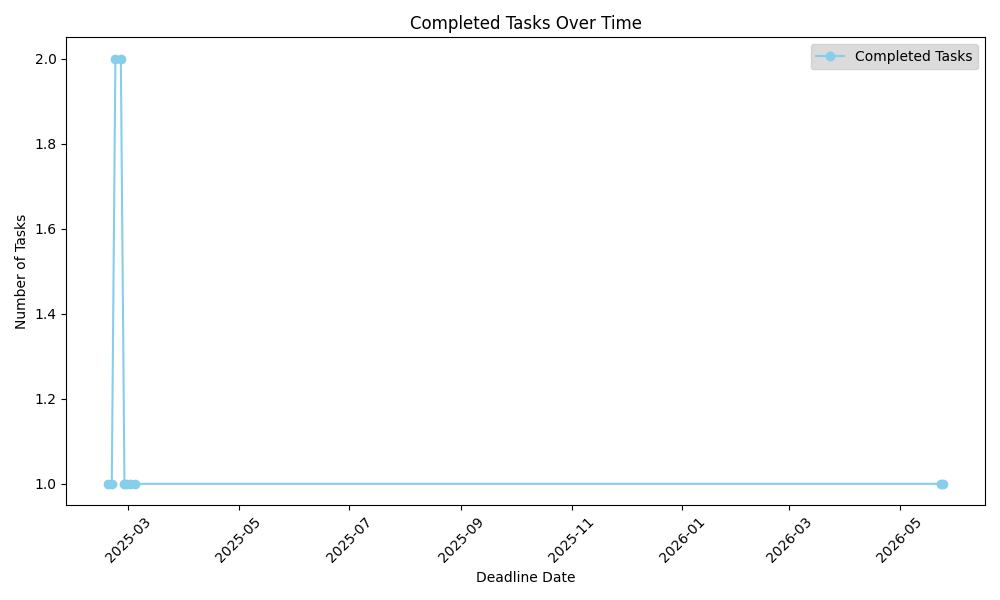
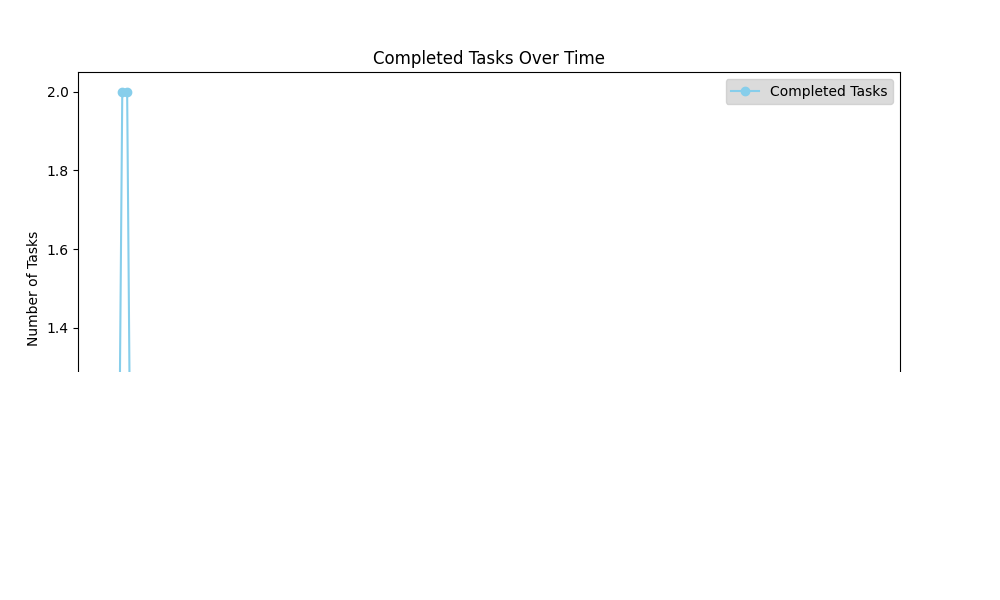
fixed dashboards

diff --git a/SystemAPP/templates/AdminDashboard.html b/SystemAPP/templates/AdminDashboard.html
@@ -164,21 +164,21 @@
                 <span style="font-size:13px;font-weight:600;color:#475569;display:flex;align-items:center;gap:7px;"><span style="width:9px;height:9px;border-radius:50%;background:#8b5cf6;display:inline-block;"></span>In Progress</span>
                 <span style="font-size:18px;font-weight:700;color:#0f172a;">{{ assigned_tasks_count }}</span>
               </div>
-              <div style="height:7px;background:#f1f5f9;border-radius:99px;overflow:hidden;"><div style="height:100%;width:60%;background:linear-gradient(90deg,#8b5cf6,#6d28d9);border-radius:99px;"></div></div>
+              <div style="height:7px;background:#f1f5f9;border-radius:99px;overflow:hidden;"><div style="height:100%;width:{{ assigned_tasks_percent }}%;background:linear-gradient(90deg,#8b5cf6,#6d28d9);border-radius:99px;"></div></div>
             </div>
             <div>
               <div style="display:flex;justify-content:space-between;align-items:center;margin-bottom:7px;">
                 <span style="font-size:13px;font-weight:600;color:#475569;display:flex;align-items:center;gap:7px;"><span style="width:9px;height:9px;border-radius:50%;background:#10b981;display:inline-block;"></span>Completed</span>
                 <span style="font-size:18px;font-weight:700;color:#0f172a;">{{ finished_tasks_count }}</span>
               </div>
-              <div style="height:7px;background:#f1f5f9;border-radius:99px;overflow:hidden;"><div style="height:100%;width:40%;background:linear-gradient(90deg,#10b981,#059669);border-radius:99px;"></div></div>
+              <div style="height:7px;background:#f1f5f9;border-radius:99px;overflow:hidden;"><div style="height:100%;width:{{ finished_tasks_percent }}%;background:linear-gradient(90deg,#10b981,#059669);border-radius:99px;"></div></div>
             </div>
             <div>
               <div style="display:flex;justify-content:space-between;align-items:center;margin-bottom:7px;">
                 <span style="font-size:13px;font-weight:600;color:#475569;display:flex;align-items:center;gap:7px;"><span style="width:9px;height:9px;border-radius:50%;background:#06b6d4;display:inline-block;"></span>Departments</span>
                 <span style="font-size:18px;font-weight:700;color:#0f172a;">{{ total_departments }}</span>
               </div>
-              <div style="height:7px;background:#f1f5f9;border-radius:99px;overflow:hidden;"><div style="height:100%;width:70%;background:linear-gradient(90deg,#06b6d4,#0891b2);border-radius:99px;"></div></div>
+              <div style="height:7px;background:#f1f5f9;border-radius:99px;overflow:hidden;"><div style="height:100%;width:{{ departments_percent }}%;background:linear-gradient(90deg,#06b6d4,#0891b2);border-radius:99px;"></div></div>
             </div>
           </div>
         </div>

diff --git a/SystemAPP/templates/EMPDashboard.html b/SystemAPP/templates/EMPDashboard.html
@@ -124,21 +124,21 @@
                 <span style="font-size:13px;font-weight:600;color:#475569;display:flex;align-items:center;gap:7px;"><span style="width:9px;height:9px;border-radius:50%;background:#f59e0b;display:inline-block;"></span>Total Assigned</span>
                 <span style="font-size:18px;font-weight:700;color:#0f172a;">{{ total_tasks }}</span>
               </div>
-              <div style="height:7px;background:#f1f5f9;border-radius:99px;overflow:hidden;"><div style="height:100%;width:100%;background:linear-gradient(90deg,#f59e0b,#d97706);border-radius:99px;"></div></div>
+              <div style="height:7px;background:#f1f5f9;border-radius:99px;overflow:hidden;"><div style="height:100%;width:{{ total_progress_percent }}%;background:linear-gradient(90deg,#f59e0b,#d97706);border-radius:99px;"></div></div>
             </div>
             <div>
               <div style="display:flex;justify-content:space-between;align-items:center;margin-bottom:7px;">
                 <span style="font-size:13px;font-weight:600;color:#475569;display:flex;align-items:center;gap:7px;"><span style="width:9px;height:9px;border-radius:50%;background:#8b5cf6;display:inline-block;"></span>In Progress</span>
                 <span style="font-size:18px;font-weight:700;color:#0f172a;">{{ in_progress_tasks }}</span>
               </div>
-              <div style="height:7px;background:#f1f5f9;border-radius:99px;overflow:hidden;"><div style="height:100%;width:55%;background:linear-gradient(90deg,#8b5cf6,#6d28d9);border-radius:99px;"></div></div>
+              <div style="height:7px;background:#f1f5f9;border-radius:99px;overflow:hidden;"><div style="height:100%;width:{{ in_progress_percent }}%;background:linear-gradient(90deg,#8b5cf6,#6d28d9);border-radius:99px;"></div></div>
             </div>
             <div>
               <div style="display:flex;justify-content:space-between;align-items:center;margin-bottom:7px;">
                 <span style="font-size:13px;font-weight:600;color:#475569;display:flex;align-items:center;gap:7px;"><span style="width:9px;height:9px;border-radius:50%;background:#10b981;display:inline-block;"></span>Completed</span>
                 <span style="font-size:18px;font-weight:700;color:#0f172a;">{{ completed_tasks }}</span>
               </div>
-              <div style="height:7px;background:#f1f5f9;border-radius:99px;overflow:hidden;"><div style="height:100%;width:40%;background:linear-gradient(90deg,#10b981,#059669);border-radius:99px;"></div></div>
+              <div style="height:7px;background:#f1f5f9;border-radius:99px;overflow:hidden;"><div style="height:100%;width:{{ completed_percent }}%;background:linear-gradient(90deg,#10b981,#059669);border-radius:99px;"></div></div>
             </div>
           </div>
         </div>

diff --git a/SystemAPP/views.py b/SystemAPP/views.py
@@ -216,12 +216,18 @@ def EMPDASHBOARD(request):
 
             # Get number of completed tasks
             completed_tasks = tasks.filter(status='Completed').count() + finished_tasks_count
+            total_progress_percent = 100 if total_tasks else 0
+            in_progress_percent = round((in_progress_tasks / total_tasks) * 100, 2) if total_tasks else 0
+            completed_percent = round((completed_tasks / total_tasks) * 100, 2) if total_tasks else 0
 
             # Render the template with counts
             return render(request, "EMPDashboard.html", {
                 'total_tasks': total_tasks,
                 'in_progress_tasks': in_progress_tasks,
                 'completed_tasks': completed_tasks,
+                'total_progress_percent': total_progress_percent,
+                'in_progress_percent': in_progress_percent,
+                'completed_percent': completed_percent,
                 'employee': employee,
             })
         else:
@@ -298,12 +304,19 @@ def AdminDashboard(request):
 
         # Count of assigned tasks (assuming each employee can have multiple tasks)
         assigned_tasks_count = Task.objects.count()
+        dashboard_bar_max = max(assigned_tasks_count, finished_tasks_count, total_departments, 1)
+        assigned_tasks_percent = round((assigned_tasks_count / dashboard_bar_max) * 100, 2)
+        finished_tasks_percent = round((finished_tasks_count / dashboard_bar_max) * 100, 2)
+        departments_percent = round((total_departments / dashboard_bar_max) * 100, 2)
 
         return render(request, "AdminDashboard.html", {
             'total_employees': total_employees,
             'total_departments': total_departments,
             'finished_tasks_count': finished_tasks_count,
             'assigned_tasks_count': assigned_tasks_count,
+            'assigned_tasks_percent': assigned_tasks_percent,
+            'finished_tasks_percent': finished_tasks_percent,
+            'departments_percent': departments_percent,
             'admin_email': admin_email,
         })
     except Exception as e: